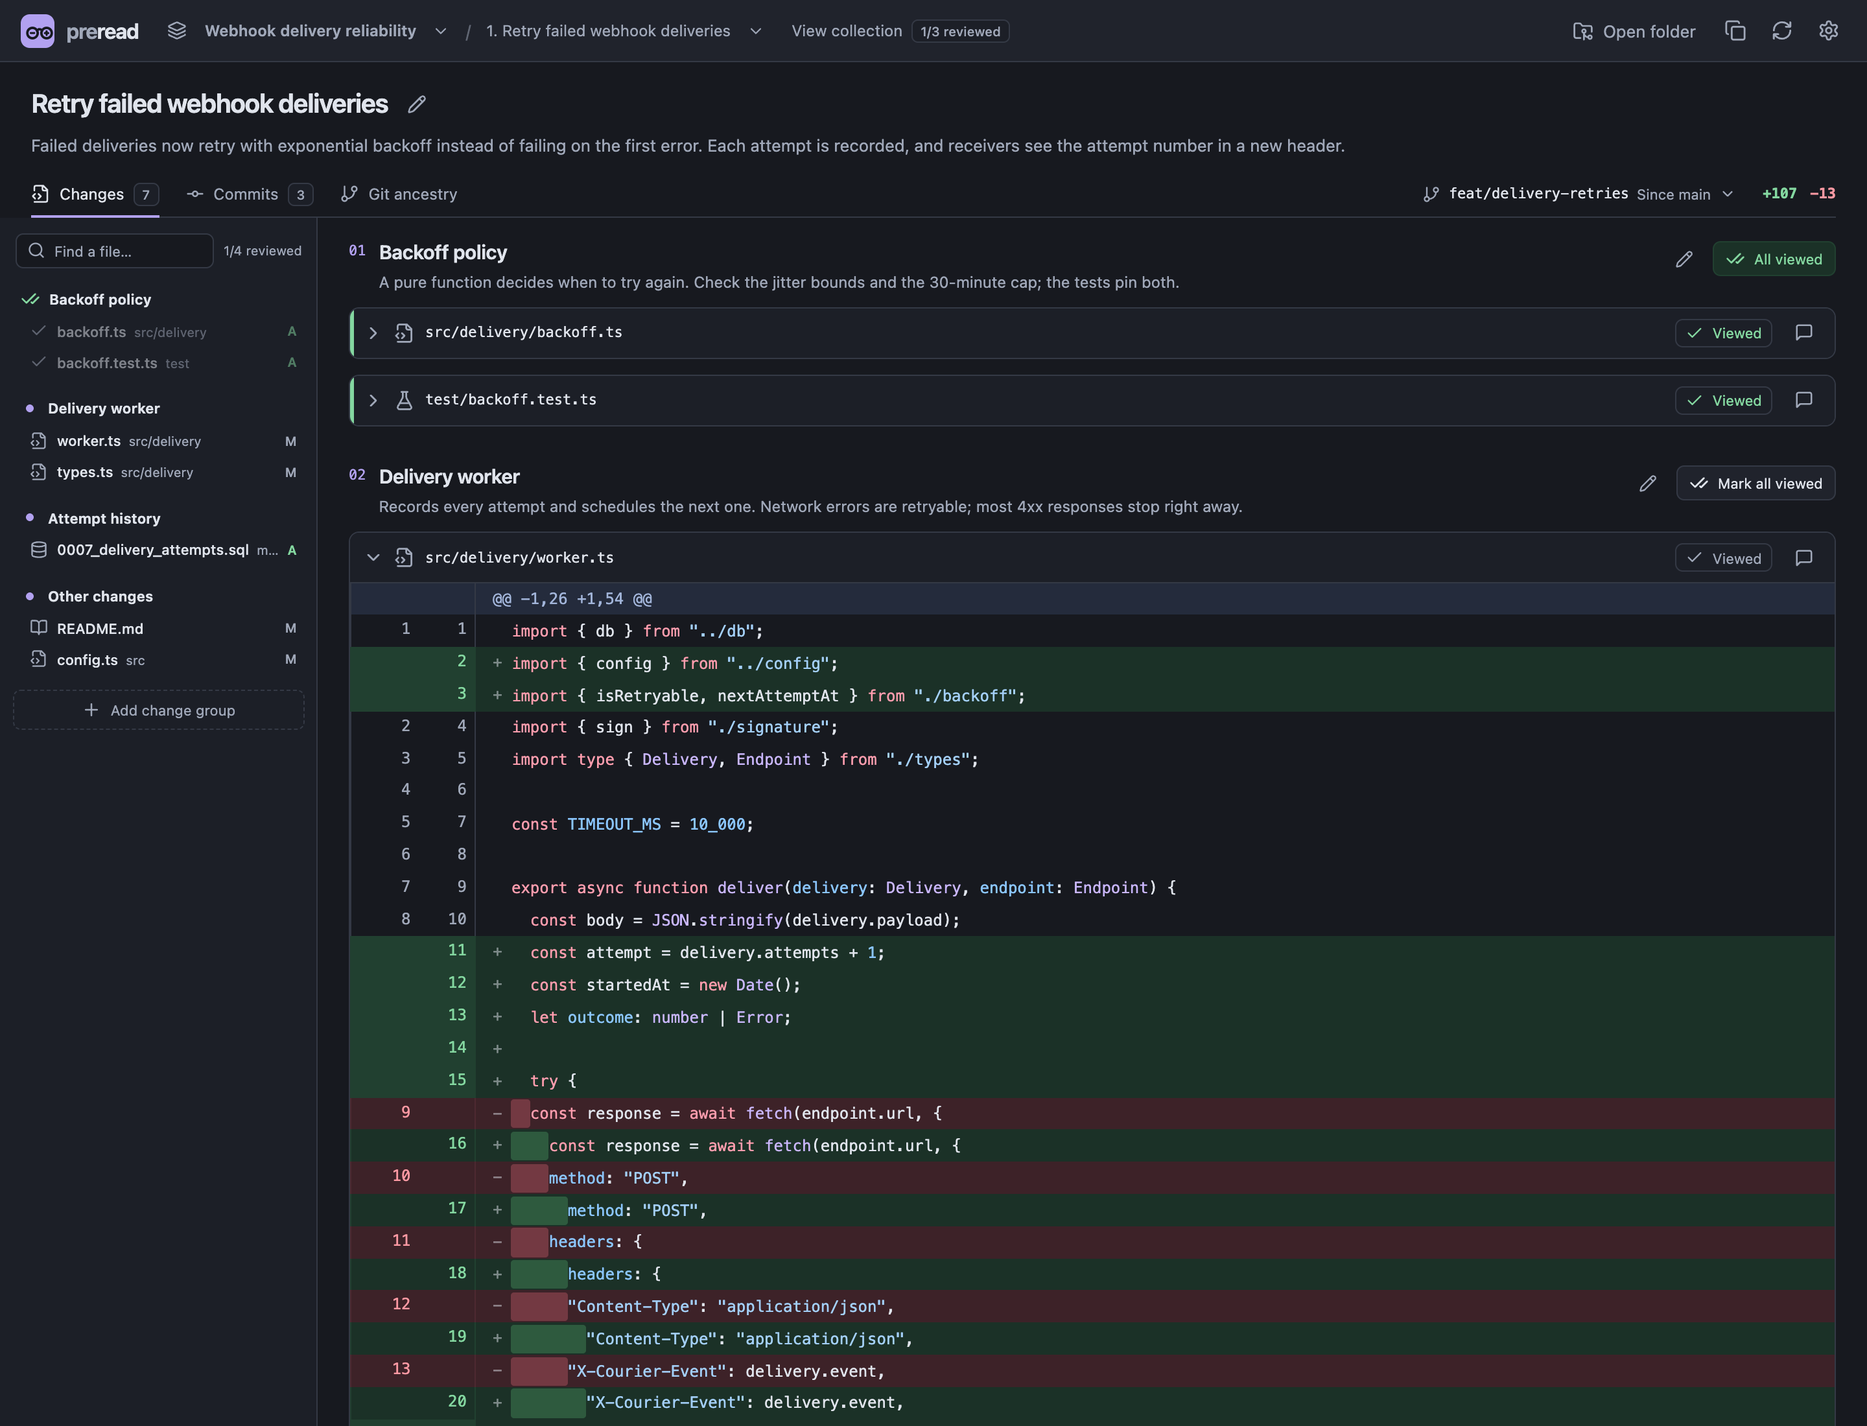
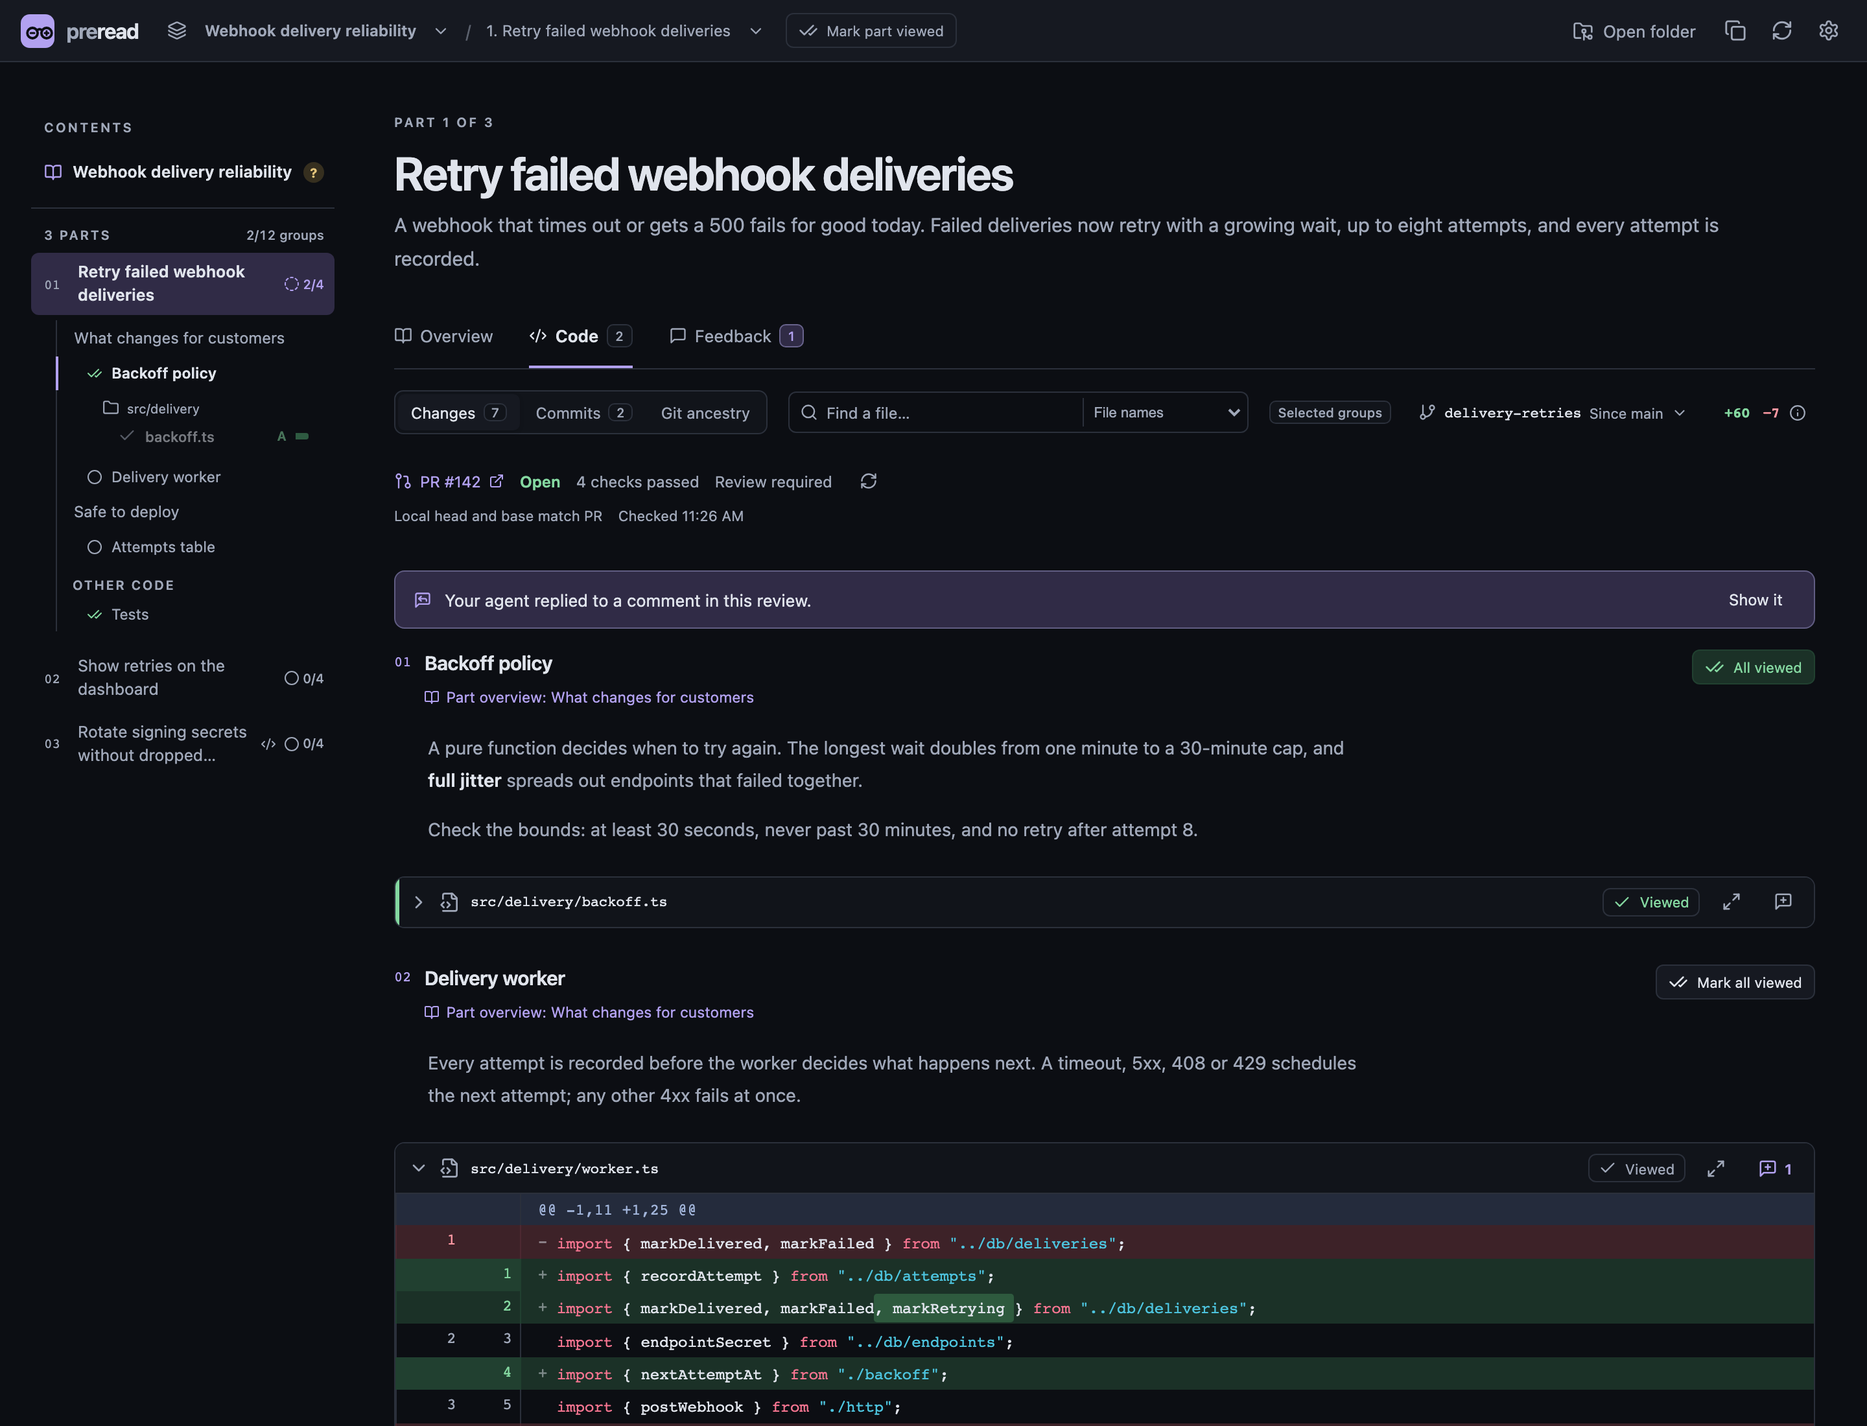
Bring the README up to date and add How I use it
The README was last updated on 11/16 and its screenshots on 10/1, so
it missed feature overviews, following a name to its definition,
Markdown comments, re-reads of only what changed and more, and it
never showed how Preread fits into a day of work with agents. The
feature list now covers those, How it works says a review is usually
one pull request that can open with an overview, and a new How I use
it section walks the loop from plan to ship, with the agent
instructions that go with it.

Five light and dark screenshot pairs replace the old three: a review
page, a feature overview that opens on an architecture diagram, the
source viewer after a ⌘-click, a comment with the agent's reply, and
a recording open full screen with its timeline. All of them are taken
on made-up repositories. The reference gains a Following code
section, and Reviewing covers the group bar and marking a whole part.

diff --git a/README.md b/README.md
@@ -15,13 +15,14 @@
 <p align="center">
   <a href="#quick-start"><strong>Quick start</strong></a> ·
   <a href="#put-your-agent-on-it">Agent skill</a> ·
+  <a href="#how-i-use-it">How I use it</a> ·
   <a href="docs/collections.md">Collections</a> ·
   <a href="#your-code-stays-on-your-machine">Privacy</a>
 </p>
 
 <picture>
   <source media="(prefers-color-scheme: dark)" srcset="docs/screenshots/review-dark.png">
-  <img alt="Preread showing a review titled Retry failed webhook deliveries. The outline lists three described change groups plus Other changes. The first group is marked All viewed and collapsed; the second group's diff is open below it." src="docs/screenshots/review-light.png">
+  <img alt="Preread showing part 1 of 3 of a feature, Retry failed webhook deliveries. The Contents rail lists the feature overview and each part with its sections and change groups. Below the title, the linked pull request is open with 4 checks passed, and a banner says your agent replied to a comment. The first change group is marked All viewed and collapsed; the second group's diff is open below it." src="docs/screenshots/review-light.png">
 </picture>
 
 ## Your agents write faster than you can read
@@ -33,29 +34,31 @@ A pre-read is the memo you get before a meeting, so you walk in knowing what mat
 ## How it works
 
 1. **Your agents work in worktrees.** One agent or ten, in one repository or several. Preread reads any Git checkout, whatever wrote the code.
-2. **Your agent writes the reading list.** A collection is a short manifest of reviews. Each names a worktree, the base to compare it with, and change groups that give each part of the diff a title and a note on what to check. It can open with an overview that tells the story and asks what the agent needs to know. The included [agent skill](skills/preread/SKILL.md) teaches your agent to write one and hand you the link.
-3. **You read.** Mark files Viewed as you go. A group is reviewed when all of its files are Viewed, and a review is complete when all of its groups are. If the code changes after you've read it, it goes back on your list.
+2. **Your agent writes the reading list.** A collection is a short manifest of reviews, usually one for each pull request the work will ship as. Each names a worktree, the base to compare it with, and change groups that give each part of the diff a title and a note on what to check. The feature, and each of its pull requests, can open with an overview that tells the story and asks what the agent needs to know. The included [agent skill](skills/preread/SKILL.md) teaches your agent to write one and hand you the link.
+3. **You read.** Start with the overview, open the code it points to, and mark files Viewed as you go. A group is reviewed when all of its files are Viewed, and a review is complete when all of its groups are. If the code changes after you've read it, it goes back on your list, showing only what changed.
 4. **Your agent reads your feedback and replies.** Answers, approved excerpts, and comments you leave in an overview or on the code are saved for your agent, which collects what is waiting on it with `pnpm feedback` and replies under each item. You reply back, and either of you resolves the thread when it’s settled.
 
 <picture>
-  <source media="(prefers-color-scheme: dark)" srcset="docs/screenshots/collection-dark.png">
-  <img alt="The collection view for Webhook delivery reliability: a progress bar reading 1 of 3 items reviewed, and a card for each review with its description and reviewed-group count." src="docs/screenshots/collection-light.png">
+  <source media="(prefers-color-scheme: dark)" srcset="docs/screenshots/overview-dark.png">
+  <img alt="The feature overview for Webhook delivery reliability. The Contents rail lists its sections and its three parts with their progress. Below a short status, an architecture diagram of the delivery pipeline colors and tags each piece by the part that changes it. A Needs your attention panel lists an agent reply, an open question, an excerpt to approve, and the next code group." src="docs/screenshots/overview-light.png">
 </picture>
 
 ## What makes it different
 
-- **A feature overview before the code.** A freely authored page combines Markdown, multiple-choice questions, code excerpts, comments on selected passages, and local images, GIFs, and charts that open full screen to zoom, pan, or scrub. Each review can have its own overview for the pull request it ships as, a tab away from its code. A Contents rail lists every part with its review status and the open overview’s sections, and each section ends with the code groups it explains, ready to open or mark reviewed. Open one and **Back** returns you to the same spot in the overview. Answers and excerpt approvals stay with the content you read, and your agent collects them, with your comments, through `pnpm feedback`.
+- **A feature overview before the code.** Your agent can open the feature, and each pull request in it, with a page that tells the story: Markdown, questions for you to answer, code excerpts for you to approve, call trees that fold like an outline, and local images, GIFs, and diagrams that open full screen to zoom, pan, or scrub. A Contents rail lists every part with its review status. Each section ends with the code groups it explains, ready to open or mark reviewed. The code opens in the same frame, and **Back** returns you to your place in the overview.
+- **Change groups that say what to check.** Each one pairs files, or single hunks, with a title and a description in Markdown. A curated review shows only the hunks its groups select, so other work in the same files stays out of it. A review of the whole comparison puts anything unassigned under Other changes, so nothing hides.
+- **Follow any name to its definition.** ⌘-click a call, constant, type, component, or prop in JavaScript or TypeScript to open where it's defined, in a full-window viewer of the worktree as the review shows it. Calls into installed packages open too, with the package's name and version. A changed file reads there as one whole-file diff, beside an Explorer of the whole worktree, Find, Back and Forward, and a button that opens the line in your editor.
+- **Comments that stay with the code.** Comment on a line, a file, or a passage of an overview, in Markdown with syntax-colored code; a comment on an overview can carry screenshots you paste or drop in. A comment on a line follows it when edits move it, and your agent's replies appear under it within a second.
+- **Re-reads show only what changed.** A Viewed mark is tied to the diff you read. When that diff changes, the mark clears, and the group reopens on just the changes since you viewed it.
 - **One reading list across worktrees.** A collection spans worktrees and repositories. Each review has its own base, so a stacked branch shows only its own layer.
-- **Change groups that say what to check.** Each one pairs files, or single hunks, with a title and a short description. Anything unassigned lands in Other changes, so nothing hides.
-- **Progress that follows the code.** A Viewed mark is tied to the diff you read. When that diff changes, the mark clears and its group reopens.
+- **The pull request, once you open one.** Link a review to its GitHub pull request to see its state, checks, and review decision in the review picker, and whether your local head and base still match it.
 - **Updates on your agent's cue.** After a change, your agent runs `pnpm refresh`, and the page you have open re-reads in place and keeps your scroll position and your marks.
 - **Any stage of the work.** Branch commits, branch plus local edits, uncommitted changes, or staged changes.
-- **The pull request, once you open one.** Link a review to its GitHub pull request to see its state, checks, and review decision, and whether your local head and base still match it.
-- **A diff reader built for long reads.** Unified or split view, syntax highlighting, line wrapping, ignore whitespace, expandable context, before-and-after images, and comments on lines and files that your agent replies to.
+- **A diff reader built for long reads.** Unified or split view, syntax highlighting that reads the whole file, line wrapping, ignore whitespace, expandable context, and before-and-after images. The file outline shows folders, each file's kind, and a meter of its changed lines, and the line count keeps runtime code apart from tests and lockfiles. Deep in a long group, a bar at the top keeps the group's name and **Mark all viewed** in reach.
 
 <picture>
-  <source media="(prefers-color-scheme: dark)" srcset="docs/screenshots/split-dark.png">
-  <img alt="Split view of a stacked review whose base is the retry branch, so it shows only the dashboard layer: a table gains an Attempts column and a RetryBadge cell." src="docs/screenshots/split-light.png">
+  <source media="(prefers-color-scheme: dark)" srcset="docs/screenshots/source-viewer-dark.png">
+  <img alt="The source viewer after ⌘-clicking markRetrying in a diff. deliveries.ts opens at the function's definition as one whole-file diff, beside an Explorer of the worktree that marks changed files, with Back, Forward, Find, and Open in Cursor along the top." src="docs/screenshots/source-viewer-light.png">
 </picture>
 
 ## Quick start
@@ -111,6 +114,39 @@ If your agent runs in a desktop app with a built-in browser, such as the Codex o
 
 Rather write collections yourself? The [collections guide](docs/collections.md) covers the format.
 
+## How I use it
+
+I run several agents at once, each in its own worktree, and nothing gets pushed until I've read it in Preread. A feature usually goes like this:
+
+1. **Plan in an overview.** Before much code exists, I ask for a feature overview: what changes for the people who use it, a mockup or diagram, and each decision I need to make as a question with a recommended answer. I answer in the page, and the agent picks up my answers with `pnpm feedback`.
+2. **Build in worktrees.** Each agent builds in its own worktree and splits the work into pull requests of about 1,000 lines. Nothing is pushed yet.
+3. **"Show me in Preread."** The agent writes one review per pull request, each based on the branch below it, and gives each its own overview. Every description opens with what goes wrong today and what changes. Tests sit in their own groups, and each interface change comes with a recording of the real app. Where one of my decisions is the reason something works the way it does, the overview quotes me, with the date.
+4. **A first read I don't have to do.** For a feature over about 3,000 lines of code outside tests, agents with no chat history each read one area first. They list code to delete, guards with no shown need, and every place they had to stop and look something up. The lead agent fixes what holds up before it hands me the link.
+5. **Read.** The review opens in the browser built into my agent app, beside the conversation. Tests, fakes, lockfiles, snapshots, and generated files are already marked Viewed, so what's left is the logic. I read the overview, open the code it links, ⌘-click anything I don't recognize, and comment wherever something's off.
+6. **Feedback and a re-read.** I tell the agent I left comments. It reads them, fixes the code, replies under each one, and refreshes my page. Each group it changed reopens on just what changed since I viewed it.
+7. **Ship.** "Reviewed in Preread. Open the PRs." Only now does the agent push. A stack goes up one layer at a time, each once the one below is green, and each review links its pull request so the picker shows its checks.
+
+<picture>
+  <source media="(prefers-color-scheme: dark)" srcset="docs/screenshots/comments-dark.png">
+  <img alt="A comment on a line of worker.ts asks what happens when the endpoint times out. The agent's reply under it quotes the line as syntax-colored code and names the test that covers it, with Reply and Resolve below." src="docs/screenshots/comments-light.png">
+</picture>
+
+Someone else's pull request goes through the same loop: my agent checks the branch out into a worktree and writes the reading list. For design work on side projects, I often read only the overview and its recordings.
+
+<picture>
+  <source media="(prefers-color-scheme: dark)" srcset="docs/screenshots/gif-viewer-dark.png">
+  <img alt="A recording from the feature overview, open full screen. It shows a deliveries page paused at 0:08.7 of 0:14.3, where a tooltip on a Retrying in 2 min badge reads Attempt 2 of 8. A play button and a timeline to scrub run along the bottom, above the zoom controls." src="docs/screenshots/gif-viewer-light.png">
+</picture>
+
+The skill already does most of this. My own agent instructions add the rest:
+
+```text
+Don't push or open a pull request until I've read the work in Preread and said so.
+Before you hand over a review, mark Viewed each file that holds no logic: tests, fakes, lockfiles, snapshots, and generated files.
+For a feature over about 3,000 lines of code outside tests, have agents with no chat history read each area first, and fix what holds up before you hand it to me.
+Where a decision of mine is the reason for a behavior, quote my words there, with the date.
+```
+
 ## Your code stays on your machine
 
 Preread runs where the code is. It only reads your repositories: it never checks out, stages, commits, fetches, or pushes, and it never sends your code anywhere. Apart from Git filling in a partial clone, described below, its only network calls are optional pull request status reads through the GitHub CLI.
@@ -127,7 +163,7 @@ Git still applies a repository's own clean filters when it reads working-tree fi
 
 - [Overviews](docs/briefs.md): writing feature and part overviews, collecting answers and passage comments, and handing feedback to your agent.
 - [Collections](docs/collections.md): the manifest format, the CLI, and how imports are checked.
-- [Reference](docs/reference.md): reviewing, keeping pages current, configuration, and limits.
+- [Reference](docs/reference.md): reviewing, following code to its definitions, comments, keeping pages current, configuration, and limits.
 - [DESIGN.md](DESIGN.md): the interface decisions.
 - [AGENTS.md](AGENTS.md): rules for agents working on this repository.
 

diff --git a/docs/reference.md b/docs/reference.md
@@ -2,11 +2,21 @@
 
 ## Reviewing
 
-Mark a file **Viewed** to collapse it, or use **Mark all viewed** for a whole group. A group counts as reviewed when all of its files are Viewed, and a review is complete when every group is, including Other changes. The collection view shows progress for every review and rechecks it each time you open it.
+Mark a file **Viewed** to collapse it, or use **Mark all viewed** for a whole group. Once a group's header scrolls away, a bar at the top keeps the group's name and **Mark all viewed**, which folds the group and moves on to the next one. **Mark review viewed** beside the review's title marks every group left in it; in a collection with an overview, the top bar carries it as **Mark part viewed**. The collection page marks the whole collection. A group counts as reviewed when all of its files are Viewed, and a review is complete when every group is, including Other changes. The collection view shows progress for every review and rechecks it each time you open it.
 
 Viewed marks belong to the changes you read in a worktree, not to the review they appear in, so they carry over when a review moves to a new base. When a group shows only part of a file, its mark covers just that part, and edits elsewhere in the file leave it alone. When the changes you read are edited, the mark clears and the group needs reading again. Marks are saved in Preread’s data directory, so every browser using the server shares them. **Mark all viewed** also writes a receipt to disk, so another browser starts from it.
 
 Reviewed is a reading checkpoint. It doesn't approve anything on GitHub, and it isn't permission to push.
+
+## Following code
+
+In a JavaScript or TypeScript file, ⌘-click a name to open where it's defined (Ctrl-click off a Mac): a call, a constant, a type, a component, a prop, or a property. Holding the key underlines what you can follow. A name with no definition, or one clicked where it's declared, says so instead. A call into an installed package opens the package's source, with its name and version beside the path.
+
+Definitions open in a full-window source viewer of the worktree as the review shows it. A changed file shows as one whole-file diff in your layout and whitespace settings, and an unchanged file shows plain source. A file card's **Open in the source viewer** button opens its file at the change you were reading. The Explorer beside the code is the whole worktree, with changed folders colored and counted.
+
+- ⌘F finds text in the open file. Enter and ⇧Enter, or ⌘G and ⇧⌘G, step through the matches, and the search carries to the next file you open.
+- ⌘[ and ⌘] go back and forward through the places you opened.
+- **Open in VS Code**, Cursor, or Zed, or **Reveal in Finder**, shows while the file on disk matches what the viewer shows.
 
 ## Comments for your agent
 
